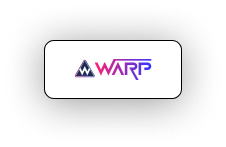
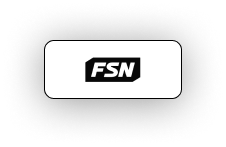
update(fsn,rieser)

Changed region(s): [[0.3097, 0.381, 0.6814, 0.5714]]

diff --git a/src/Data/PartnersData.ts b/src/Data/PartnersData.ts
@@ -103,6 +103,12 @@ export const AllPartners = [
     kr: "블록체인 개발팀",
   },
   {
+    img: "/image/partners/development-pic11.png",
+    kr: "블록체인 개발팀",
+    name: "Rieser Stern",
+    position: "Blockchain Developer",
+  },
+  {
     img: "/image/partners/business-pic04.png",
     name: "Jihoon Jeong",
     kr: "최고 전략 책임자",
@@ -183,4 +189,5 @@ export const AllPartners = [
     kr: "기술 사업화 고문",
     position: "Advisor",
   },
+  
 ];

diff --git a/src/component/Home/Sale.tsx b/src/component/Home/Sale.tsx
@@ -29,8 +29,9 @@ const Sale: React.FC = () => {
   return (
     <SaleLayout>
       <SaleContainer>
-        <h1>THE FISRT NFT SALE 2022.09</h1>
-        <span>META-AXEL'S FIRST COLLECTION : 10,000 NFTS</span>
+        <h1>GRAND OPENING OF THE BURNT PINK SQUAD 2022. 10</h1>
+        <span>Burnt Pink Squad Origin : 3,000 NFTs
+</span>
       </SaleContainer>
       <SaleSlideLayout>
         <SlideLayout>

diff --git a/src/Data/CompanyData.ts b/src/Data/CompanyData.ts
@@ -18,6 +18,9 @@ export const Companies = [
     img: "/image/company/fame_mark.png",
   },
   {
+    img: "/image/company/fsn_mark.png",
+  },
+  {
     img: "/image/company/seven_mark.png",
   },
   {
